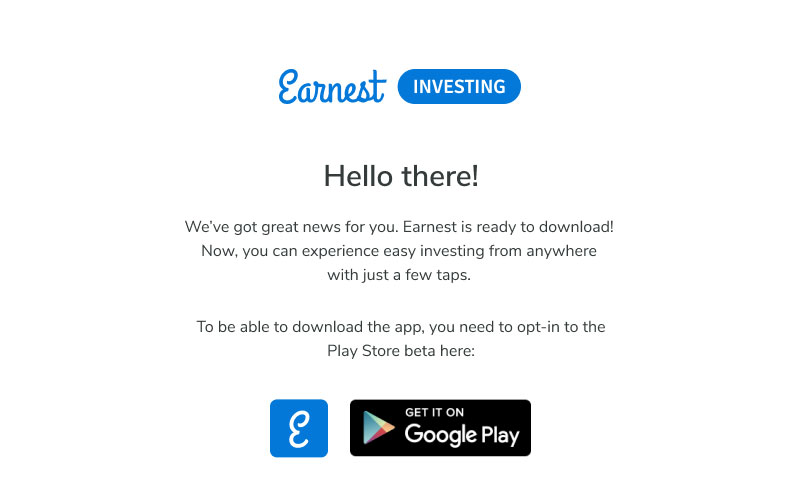
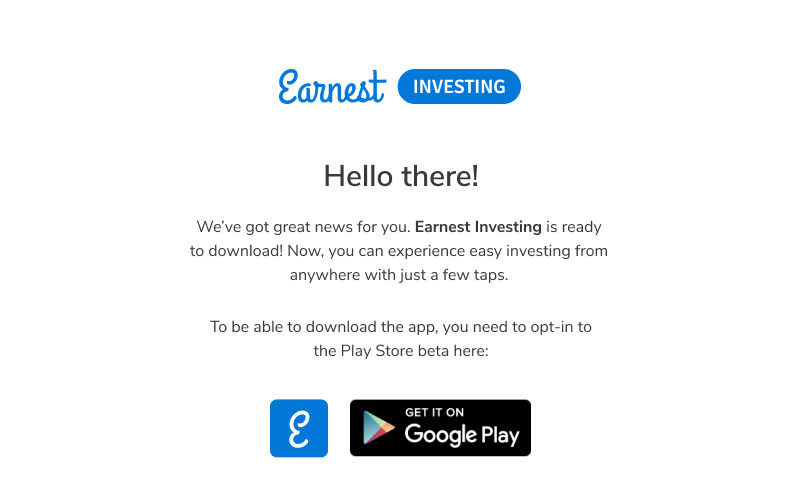
Updated top section copy - 'Earnest Investing'

Changed region(s): [[0.2188, 0.4268, 0.7812, 0.5793], [0.25, 0.6402, 0.75, 0.7317]]

diff --git a/index.html b/index.html
@@ -9,5 +9,5 @@
 	<center><p style="font-size: 8px; color: #FFF;">Download now and invest with ease!</p>
 	<a href="#"><img width="800px" height="492px" src="https://raw.githubusercontent.com/claudineatwork/earnestv2/master/earnest-edm-01.jpg"></a><br/>
 		<a href="mailto:help@earnest.ph"><img width="800px" height="664px" src="https://raw.githubusercontent.com/claudineatwork/earnestv2/master/earnest-edm-02.jpg"></a><br/>
-		<img width="800px" height="422px" src="https://raw.githubusercontent.com/claudineatwork/earnestv2/master/earnest-edm-03.jpg"><br/></center>
+		<a href="mailto:hello@earnest.ph"><img width="800px" height="422px" src="https://raw.githubusercontent.com/claudineatwork/earnestv2/master/earnest-edm-03.jpg"></a><br/></center>
 </html>
